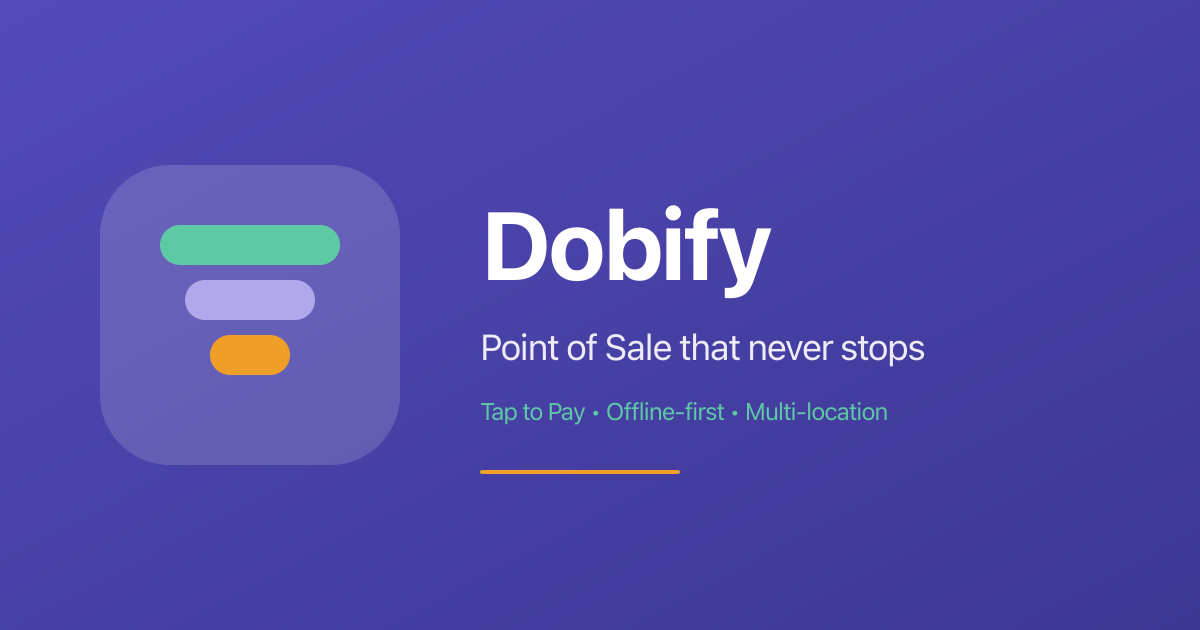
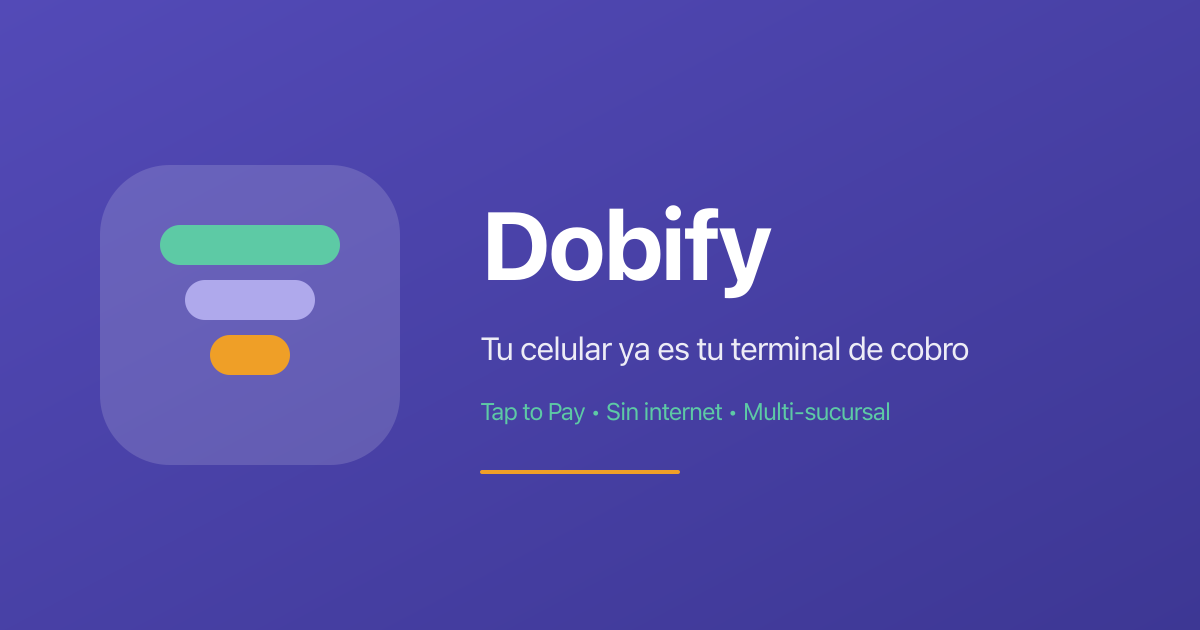
feat: update index.html and og-image files with localized content and visuals

Changed region(s): [[0.4008, 0.5127, 0.8017, 0.573], [0.4933, 0.6333, 0.74, 0.6635]]

diff --git a/index.html b/index.html
@@ -1,14 +1,14 @@
 <!DOCTYPE html>
-<html lang="en">
+<html lang="es-MX">
   <head>
     <meta charset="UTF-8">
     <meta name="viewport" content="width=device-width, initial-scale=1.0">
 
     <!-- Primary Meta Tags -->
-    <title>Dobify — Point of Sale that never stops</title>
-    <meta name="title" content="Dobify — Point of Sale that never stops">
-    <meta name="description" content="Turn any smartphone into a POS with Tap to Pay. No hardware, no cables, no dying batteries. Offline-first sync, multi-location support, and clear pricing in MXN.">
-    <meta name="keywords" content="POS, point of sale, Tap to Pay, Mexico, retail, inventory, payments, offline POS, TPV, punto de venta">
+    <title>Dobify — Tu celular ya es tu terminal de cobro</title>
+    <meta name="title" content="Dobify — Tu celular ya es tu terminal de cobro">
+    <meta name="description" content="Convierte cualquier smartphone en punto de venta con Tap to Pay. Sin hardware, sin cables, sin baterías que se agotan. Funciona sin internet y precios claros en MXN.">
+    <meta name="keywords" content="POS, punto de venta, Tap to Pay, México, retail, inventario, pagos, TPV, terminal de cobro, cobro con celular">
     <meta name="author" content="Dobify">
     <meta name="robots" content="index, follow">
     <link rel="canonical" href="https://dobify.mx/">
@@ -16,20 +16,23 @@
     <!-- Open Graph / Facebook -->
     <meta property="og:type" content="website">
     <meta property="og:url" content="https://dobify.mx/">
-    <meta property="og:title" content="Dobify — Point of Sale that never stops">
-    <meta property="og:description" content="Turn any smartphone into a POS with Tap to Pay. No hardware, no cables, no dying batteries. Offline-first sync, multi-location support, and clear pricing in MXN.">
+    <meta property="og:title" content="Dobify — Tu celular ya es tu terminal de cobro">
+    <meta property="og:description" content="Convierte cualquier smartphone en punto de venta con Tap to Pay. Sin hardware, sin cables, sin baterías que se agotan. Funciona sin internet y precios claros en MXN.">
     <meta property="og:image" content="https://dobify.mx/og-image.png">
+    <meta property="og:image:secure_url" content="https://dobify.mx/og-image.png">
+    <meta property="og:image:type" content="image/png">
     <meta property="og:image:width" content="1200">
     <meta property="og:image:height" content="630">
-    <meta property="og:locale" content="en_US">
-    <meta property="og:locale:alternate" content="es_MX">
+    <meta property="og:image:alt" content="Dobify - Tu celular ya es tu terminal de cobro">
+    <meta property="og:locale" content="es_MX">
+    <meta property="og:locale:alternate" content="en_US">
     <meta property="og:site_name" content="Dobify">
 
     <!-- Twitter -->
     <meta name="twitter:card" content="summary_large_image">
     <meta name="twitter:url" content="https://dobify.mx/">
-    <meta name="twitter:title" content="Dobify — Point of Sale that never stops">
-    <meta name="twitter:description" content="Turn any smartphone into a POS with Tap to Pay. No hardware, no cables, no dying batteries. Offline-first sync, multi-location support, and clear pricing in MXN.">
+    <meta name="twitter:title" content="Dobify — Tu celular ya es tu terminal de cobro">
+    <meta name="twitter:description" content="Convierte cualquier smartphone en punto de venta con Tap to Pay. Sin hardware, sin cables, sin baterías que se agotan. Funciona sin internet y precios claros en MXN.">
     <meta name="twitter:image" content="https://dobify.mx/og-image.png">
 
     <!-- Favicons -->
@@ -58,7 +61,7 @@
         "ratingValue": "4.8",
         "ratingCount": "2400"
       },
-      "description": "Point of sale that turns any smartphone into a POS with Tap to Pay. Offline-first sync, multi-location support."
+      "description": "Punto de venta que convierte cualquier smartphone en terminal de cobro con Tap to Pay. Funciona sin internet, multi-sucursal."
     }
     </script>
     <script type="application/ld+json">
